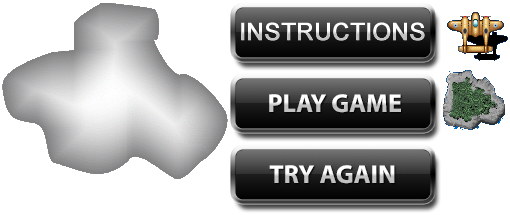
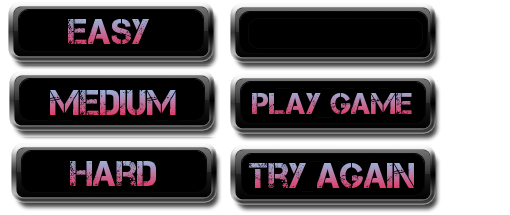
added 3 new buttons for difficulty selection. altered text on buttons.

diff --git a/mailPilot-v11/Scripts/managers/asset.ts b/mailPilot-v11/Scripts/managers/asset.ts
@@ -22,14 +22,18 @@ module managers {
     var spriteSheetData = {
         "images": ["assets/images/atlas.png"],
         "frames": [
-            [230, 2, 211, 69],
             [230, 73, 211, 69],
-            [230, 144, 211, 69]
+            [230, 144, 211, 69],
+            [5, 0, 213, 65],
+            [6, 67, 213, 65],
+            [6, 141, 213, 65]
         ],
         "animations": {
-            "instructionsButton": [0],
-            "playButton": [1],
-            "tryAgainButton": [2]
+            "playButton": [0],
+            "tryAgainButton": [1],
+            "easyButton": [2],
+            "mediumButton": [3],
+            "hardButton": [4]
         }
     }
 

diff --git a/mailPilot-v11/Scripts/managers/asset.js b/mailPilot-v11/Scripts/managers/asset.js
@@ -22,14 +22,18 @@ var managers;
     var spriteSheetData = {
         "images": ["assets/images/atlas.png"],
         "frames": [
-            [230, 2, 211, 69],
             [230, 73, 211, 69],
-            [230, 144, 211, 69]
+            [230, 144, 211, 69],
+            [5, 0, 213, 65],
+            [6, 67, 213, 65],
+            [6, 141, 213, 65]
         ],
         "animations": {
-            "instructionsButton": [0],
-            "playButton": [1],
-            "tryAgainButton": [2]
+            "playButton": [0],
+            "tryAgainButton": [1],
+            "easyButton": [2],
+            "mediumButton": [3],
+            "hardButton": [4]
         }
     };
 
